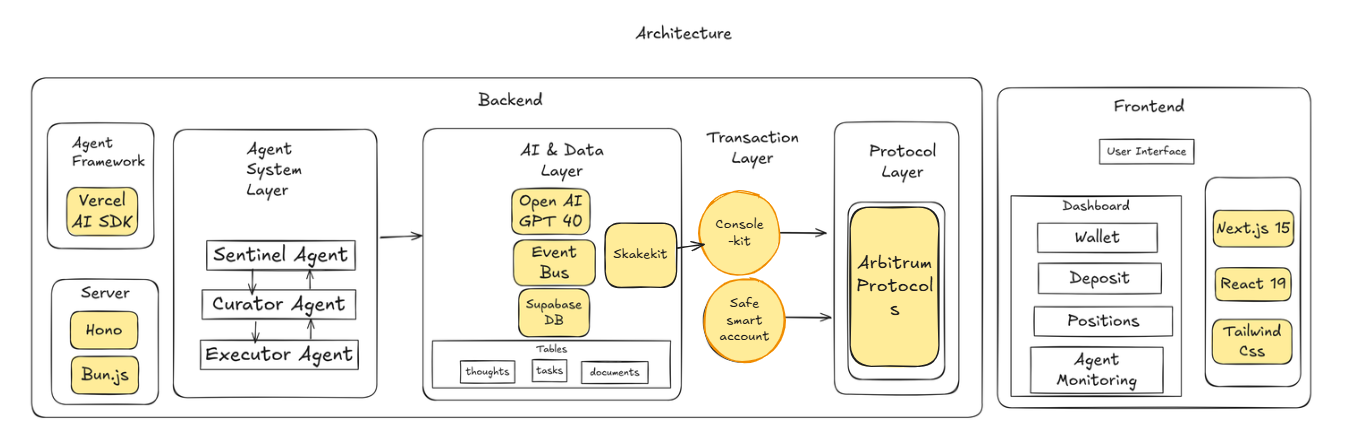
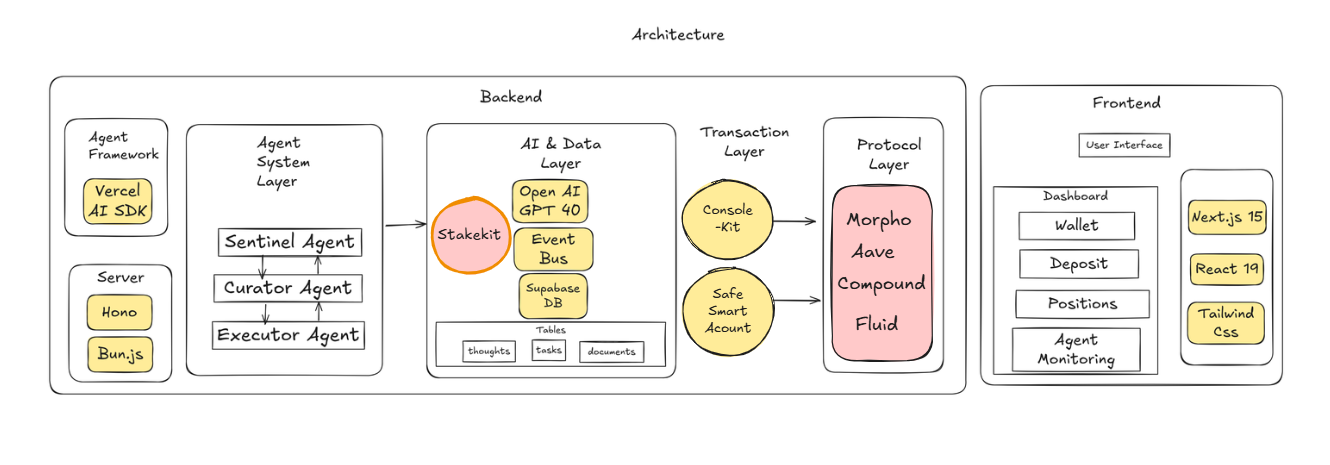
docs: update Readme

Changed region(s): [[0.0308, 0.1562, 0.9865, 0.9375], [0.4624, 0.0625, 0.5549, 0.0938]]

diff --git a/README.md b/README.md
@@ -1,15 +1,16 @@
 # 🤖 Necta Agents
 
-An autonomous multi-agent DeFi system for yield optimization and portfolio management, built on Arbitrum. Powered by Bun, Hono, Vercel AI SDK, OpenAI, Brahma's ConsoleKit, Safe Smart Account, Supabase, Stakekit Viem, and more.
+NectaFi is an autonomous, multi-agent DeFi system that automates stablecoin yield optimization and portfolio management, built on Base. It is powered by Bun, Hono, the Vercel AI SDK, OpenAI, Stakekit, Brahma's ConsoleKit, Safe Smart Account, Supabase, and more.
 
 ## Overview 📚
 
-Necta Agents is an AI-powered DeFi automation system that:
+Overview 📚
+Necta Agents is an AI-powered DeFi yield automation system that:
 
--   Monitors market conditions and wallet status
--   Identifies optimal yield opportunities to maximize returns
--   Executes transactions securely through Brahma accounts (powered by Safe Smart Account)
--   Operates autonomously with no human intervention required
+-   **Continuously monitors** market conditions and wallet status through **Stakekit APIs**
+-   **Identifies optimal yield opportunities** to maximize returns using **Stakekit's real-time yield data**
+-   **Executes transactions securely** through **Brahma accounts** (powered by **Safe Smart Account**)
+-   **Operates autonomously** with no human intervention required
 
 ## System Architecture 🏗
 
